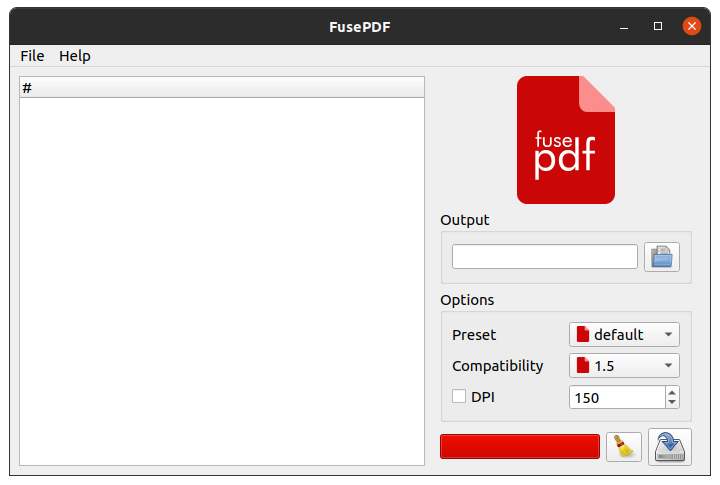
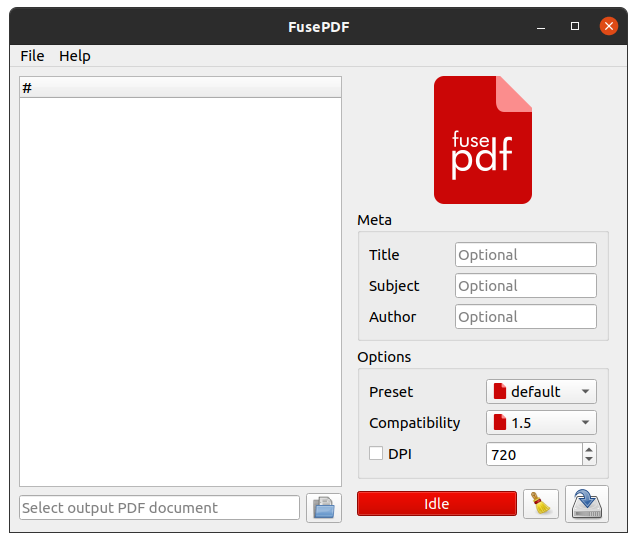
minor ui + meta support, fix #4, fix #5

Changed region(s): [[0.0, 0.0309, 1.0, 0.9897], [0.6562, 0.1237, 0.9545, 0.6186], [0.5667, 0.1856, 0.5965, 0.2165]]

diff --git a/fusepdf.cpp b/fusepdf.cpp
@@ -25,17 +25,26 @@ FusePDF::FusePDF(QWidget *parent)
     qApp->setPalette(mainPalette);
 
     QPalette treePalette = ui->inputs->palette();
-    treePalette.setColor(QPalette::Highlight, QColor(86,75,75)); // #564b4b
+    treePalette.setColor(QPalette::Highlight, QColor(124,124,124)); // #7c7c7c
     ui->inputs->setPalette(treePalette);
 
+    ui->metaTitleLabel->setToolTip(tr("Set document title"));
+    ui->metaTitle->setToolTip(ui->metaTitleLabel->toolTip());
+    ui->metaAuthorLabel->setToolTip(tr("Set document author"));
+    ui->metaAuthor->setToolTip(ui->metaAuthorLabel->toolTip());
+    ui->metaSubjectLabel->setToolTip(tr("Set document subject"));
+    ui->metaSubject->setToolTip(ui->metaSubjectLabel->toolTip());
     ui->presetLabel->setToolTip(tr("Distiller presets\n\n"
                                    "- DEFAULT: selects output intended to be useful across a wide variety of uses, possibly at the expense of a larger output file.\n"
                                    "- PREPRESS: selects output similar to Acrobat Distiller \"Prepress Optimized\" (up to version X) setting.\n"
                                    "- EBOOK: selects medium-resolution output similar to the Acrobat Distiller (up to version X) \"eBook\" setting.\n"
                                    "- SCREEN: selects low-resolution output similar to the Acrobat Distiller (up to version X) \"Screen Optimized\" setting.\n"
                                    "- PRINTER: selects output similar to the Acrobat Distiller \"Print Optimized\" (up to version X) setting."));
+    ui->preset->setToolTip(ui->presetLabel->toolTip());
     ui->compatLabel->setToolTip(tr("Select the PDF version this document should be compatible with."));
+    ui->compat->setToolTip(ui->compatLabel->toolTip());
     ui->dpiCheck->setToolTip(tr("Override resolution for pattern fills, for fonts that must be converted to bitmaps\n and any other rendering required (eg rendering transparent pages for output to PDF versions < 1.4). "));
+    ui->dpi->setToolTip(ui->dpiCheck->toolTip());
     ui->inputs->setToolTip(tr("Drag and drop PDF documents you want to merge here. You can re-arrange after adding them (if sorting is disabled).\n\n"
                               "Note that the first document will define the paper size on the final output.\n\n"
                               "You can remove a document with the DEL key."));
@@ -184,7 +193,19 @@ void FusePDF::makeCommand()
     for (int i = 0; i < ui->inputs->topLevelItemCount(); ++i) {
         command.append(QString(" \"%1\"").arg(ui->inputs->topLevelItem(i)->text(1)));
     }
-    command.append(" -c \"[/Creator(FusePDF - nettstudio.no)/DOCINFO pdfmark\"");
+
+    QString title = ui->metaTitle->text();
+    QString subject = ui->metaSubject->text();
+    QString author = ui->metaAuthor->text();
+
+    QString marks;
+    marks.append("/Creator(FusePDF - nettstudio.no)");
+    if (!title.isEmpty()) { marks.append(QString("/Title(%1)").arg(title)); }
+    if (!subject.isEmpty()) { marks.append(QString("/Subject(%1)").arg(subject)); }
+    if (!author.isEmpty()) { marks.append(QString("/Author(%1)").arg(author)); }
+
+    command.append(QString(" -c \"[%1/DOCINFO pdfmark\"").arg(marks));
+
     _cmd = command;
     qDebug() << _cmd;
 }
@@ -325,6 +346,9 @@ void FusePDF::clearAll()
     ui->inputs->clear();
     ui->cmd->clear();
     ui->fileName->clear();
+    ui->metaTitle->clear();
+    ui->metaAuthor->clear();
+    ui->metaSubject->clear();
     _cmd.clear();
     loadOptions();
 }
@@ -378,7 +402,7 @@ void FusePDF::handleFoundPDF(const QList<QUrl> &urls)
         item->setFlags(Qt::ItemIsSelectable|Qt::ItemIsDragEnabled|Qt::ItemIsEnabled|Qt::ItemNeverHasChildren);
 
         if (ui->fileName->text().isEmpty()) {
-            QString outputFile = info.absolutePath() + "/FusePDF-output.pdf";
+            QString outputFile = info.absolutePath() + "/document.pdf";
             QFileInfo outputInfo(outputFile);
             if (!QFile::exists(outputInfo.absoluteFilePath())) {
                 ui->fileName->setText(outputInfo.absoluteFilePath());
@@ -425,14 +449,28 @@ void FusePDF::loadOptions()
     ui->preset->setCurrentText(settings.value("preset", "default").toString());
     ui->actionShow_log->setChecked(settings.value("showLog", false).toBool());
     ui->actionAuto_Sort->setChecked(settings.value("autoSort", false).toBool());
+    ui->actionRemember_meta_author->setChecked(settings.value("metaAuthor", true).toBool());
+    ui->actionRemember_meta_subject->setChecked(settings.value("metaSubject", true).toBool());
+    ui->actionRemember_meta_title->setChecked(settings.value("metaTitle", true).toBool());
     _lastLoadDir = settings.value("lastLoadDir", "").toString();
     _lastSaveDir = settings.value("lastSaveDir", "").toString();
     ui->dpiCheck->setChecked(settings.value("checkdpi", false).toBool());
     ui->actionOpen_saved_PDF->setChecked(settings.value("openSavedPDF", true).toBool());
-    settings.endGroup();
-
     ui->cmd->setVisible(ui->actionShow_log->isChecked());
     ui->inputs->setSortingEnabled(ui->actionAuto_Sort->isChecked());
+    if (ui->actionRemember_meta_author->isChecked()) {
+        QString author = settings.value("metaAuthorText").toString();
+        if (!author.isEmpty()) { ui->metaAuthor->setText(author); }
+    }
+    if (ui->actionRemember_meta_subject->isChecked()) {
+        QString subject = settings.value("metaSubjectText").toString();
+        if (!subject.isEmpty()) { ui->metaSubject->setText(subject); }
+    }
+    if (ui->actionRemember_meta_title->isChecked()) {
+        QString title = settings.value("metaTitleText").toString();
+        if (!title.isEmpty()) { ui->metaTitle->setText(title); }
+    }
+    settings.endGroup();
 
     missingGhost();
 }
@@ -452,6 +490,18 @@ void FusePDF::saveOptions()
     settings.setValue("autoSort", ui->actionAuto_Sort->isChecked());
     settings.setValue("checkdpi", ui->dpiCheck->isChecked());
     settings.setValue("openSavedPDF", ui->actionOpen_saved_PDF->isChecked());
+    settings.setValue("metaAuthor", ui->actionRemember_meta_author->isChecked());
+    settings.setValue("metaSubject", ui->actionRemember_meta_subject->isChecked());
+    settings.setValue("metaTitle", ui->actionRemember_meta_title->isChecked());
+    if (ui->actionRemember_meta_author->isChecked()) {
+        settings.setValue("metaAuthorText", ui->metaAuthor->text());
+    }
+    if (ui->actionRemember_meta_subject->isChecked()) {
+        settings.setValue("metaSubjectText", ui->metaSubject->text());
+    }
+    if (ui->actionRemember_meta_title->isChecked()) {
+        settings.setValue("metaTitleText", ui->metaTitle->text());
+    }
     if (!_lastLoadDir.isEmpty()) {
         settings.setValue("lastLoadDir", _lastLoadDir);
     }
@@ -507,3 +557,21 @@ void FusePDF::deleteDocumentItem()
     delete ui->inputs->currentItem();
 }
 
+
+void FusePDF::on_metaTitle_textChanged(const QString &arg1)
+{
+    Q_UNUSED(arg1)
+    makeCommand();
+}
+
+void FusePDF::on_metaSubject_textChanged(const QString &arg1)
+{
+    Q_UNUSED(arg1)
+    makeCommand();
+}
+
+void FusePDF::on_metaAuthor_textChanged(const QString &arg1)
+{
+    Q_UNUSED(arg1)
+    makeCommand();
+}

diff --git a/fusepdf.h b/fusepdf.h
@@ -115,6 +115,9 @@ private slots:
     bool missingGhost();
     void handleProcessError(QProcess::ProcessError error);
     void deleteDocumentItem();
+    void on_metaTitle_textChanged(const QString &arg1);
+    void on_metaSubject_textChanged(const QString &arg1);
+    void on_metaAuthor_textChanged(const QString &arg1);
 
 private:
     Ui::FusePDF *ui;
